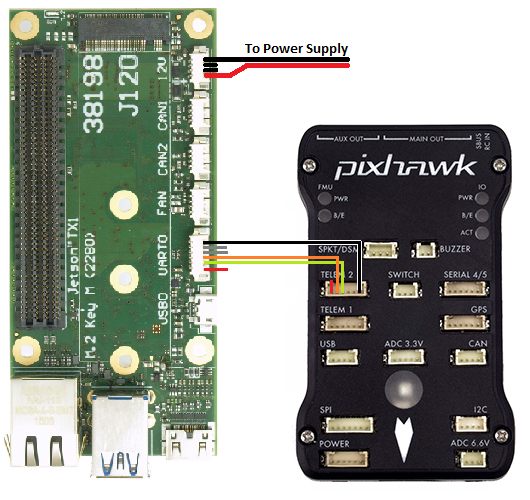
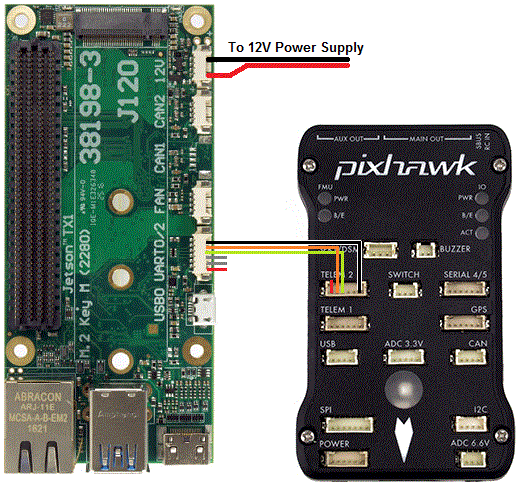
Dev: update tx1 connection instructions

diff --git a/dev/source/docs/companion-computer-nvidia-tx1.rst b/dev/source/docs/companion-computer-nvidia-tx1.rst
@@ -4,7 +4,7 @@
 NVidia TX1 as a Companion Computer
 ===========================================
 
-This page explains how to connect and configure an `NVidia TX1 <http://www.nvidia.com/object/jetson-tx1-dev-kit.html>`__ using `AuVidea.eu's J120 carrier board <http://auvidea.eu/index.php/2015-11-08-08-01-27/2016-02-03-12-30-02/j120-super-mini-computer-with-tx1>`__ so that it is able to communicate with a Pixhawk flight controller using the MAVLink protocol over a serial connection.
+This page explains how to connect and configure an `NVidia TX1 <http://www.nvidia.com/object/jetson-tx1-dev-kit.html>`__ using `AuVidea.eu's J120 carrier board <http://auvidea.eu/index.php/2016-08-06-11-12-04/2016-02-03-12-30-02/j120-super-mini-computer-with-tx1>`__ so that it is able to communicate with a Pixhawk flight controller using the MAVLink protocol over a serial connection.
 
 Connecting the Pixhawk and TX1
 ==============================
@@ -20,14 +20,13 @@ Setup the Pixhawk
 
 Connect to the Pixhawk with a ground station (i.e. Mission Planner) and set the following parameters:
 
--  :ref:`TELEM_DELAY <TELEM_DELAY>` = 30.  This delays the pixhawk from using the telemetry ports for 30 seconds.  This is required to avoid interrupting the TX1's bootloader.  Note this only works if the TX1 and Pixhawk are powered up at the same time (or the TX1 is powered up first).
-
--  :ref:`SERIAL2_BAUD <SERIAL2_BAUD>` = 921.  The Pixhawk and TX1 can commnicate at 921600 baud.
+-  :ref:`SERIAL2_PROTOCOL <SERIAL2_PROTOCOL>` = 1 (the default) to enable MAVLink on the serial port.
+-  :ref:`SERIAL2_BAUD <SERIAL2_BAUD>` = 921 so the Pixhawk can communicate with the TX1 at 921600 baud.
  
 Setup the TX1
 =============
 
-The easiest way to setup the TX1 is to flash one of the existing binaries from `firmware.ardupilot.org <http://firmware.ardupilot.org/Companion>`__ (look for images starting with "tx1").  Note that the J120 boards do not allow flashing so instead an `NVidia TX1 development board <http://www.nvidia.com/object/jetson-tx1-dev-kit.html>`__ must be used.
+The easiest way to setup the TX1 is to flash one of the existing binaries from `firmware.ardupilot.org <http://firmware.ardupilot.org/Companion>`__ (look for images starting with "tx1") or you can create your own image by following the instructions found `here in the ardupilot companion repo <https://github.com/ArduPilot/companion/tree/master/Nvidia_JTX1/Ubuntu>`__.
 
 -  mount the TX1 back on the NVidia development board
 -  download and unzip the latest image starting with "tx1" from `firmware.ardupilot.org <http://firmware.ardupilot.org/Companion>`__
